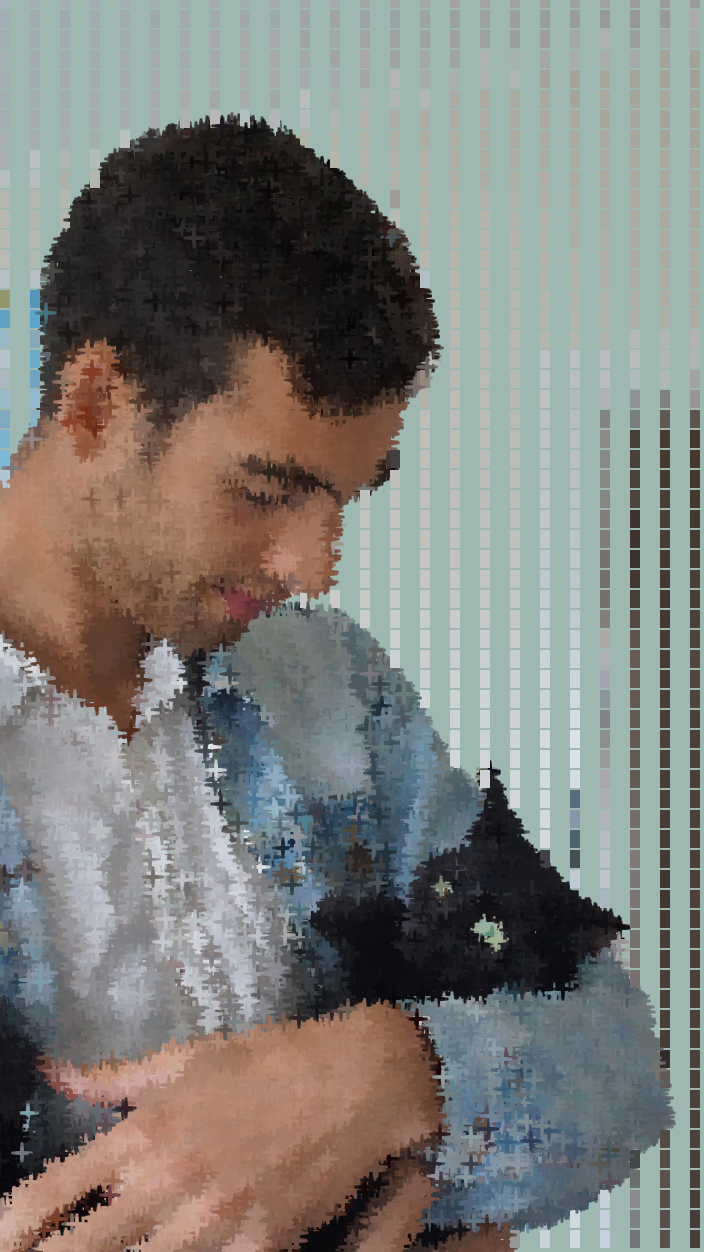
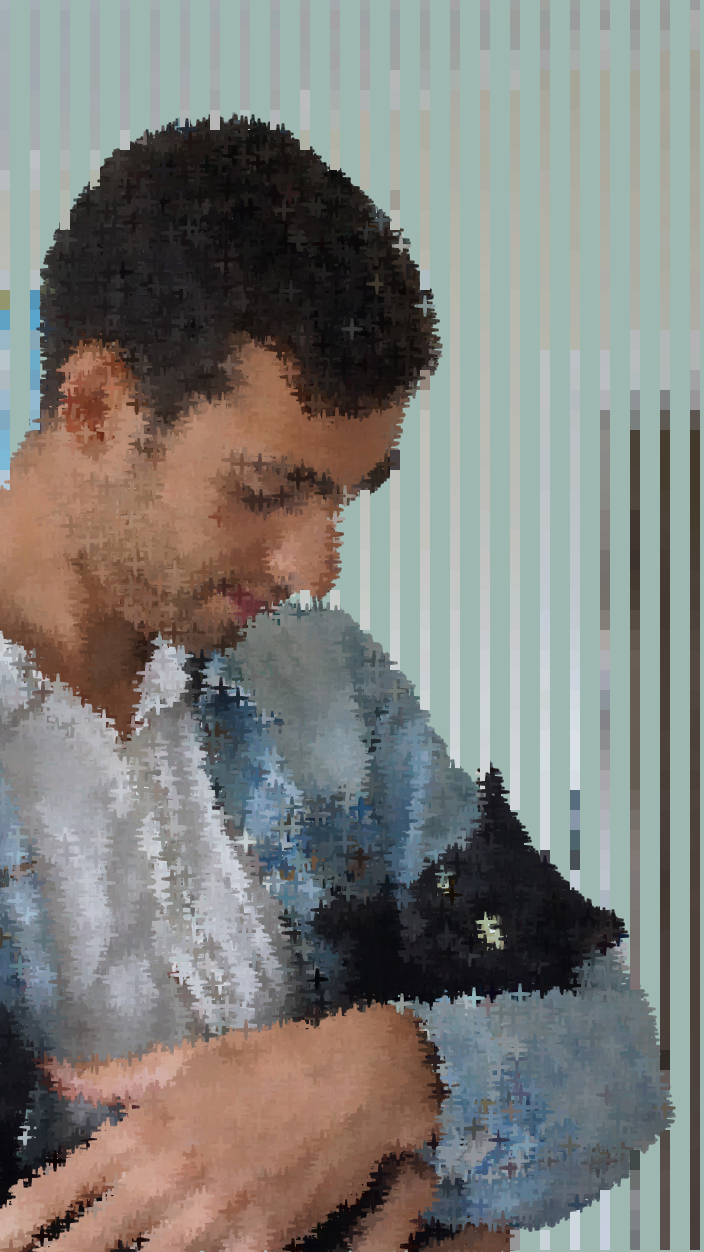
edited image1

diff --git a/sketch.js b/sketch.js
@@ -2,9 +2,9 @@ let sourceImg=null;
 let maskImg=null;
 let renderCounter=0;
 
-let sourceFile = "input_3.jpg";
-let maskFile   = "mask_3.png";
-let outputFile = "artwork_3.png";
+let sourceFile = "input_1.jpg";
+let maskFile   = "mask_1.png";
+let outputFile = "artwork_1.png";
 
 function preload() {
   sourceImg = loadImage(sourceFile);
@@ -16,14 +16,14 @@ function setup () {
   main_canvas.parent('canvasContainer');
   imageMode(CENTER);
   noStroke();
-  background(166, 99, 47);
+  background(158, 183, 177);
   sourceImg.loadPixels();
   maskImg.loadPixels();
 }
 
 const tile_width = 10;
-const tile_height = 13;
-const tile_step_x = 10;
+const tile_height = 20;
+const tile_step_x = 30;
 const tile_step_y = 20;
 
 function draw () {
@@ -41,7 +41,7 @@ function draw () {
       if(mask[0] < 128) {
         noStroke();
         fill(pix);
-        rect(x, y, tile_width, tile_height);
+        rect(x, y-10, tile_width, tile_height);
       }
       else {
       }
@@ -54,7 +54,7 @@ function draw () {
     let pix = sourceImg.get(x, y);
     let mask = maskImg.get(x, y);
     let pointSize = 20;
-    let halfSize = 6;
+    let halfSize = 3;
     if(mask[0] > 128) {
       // fill(0);
       // stroke(pix);   
